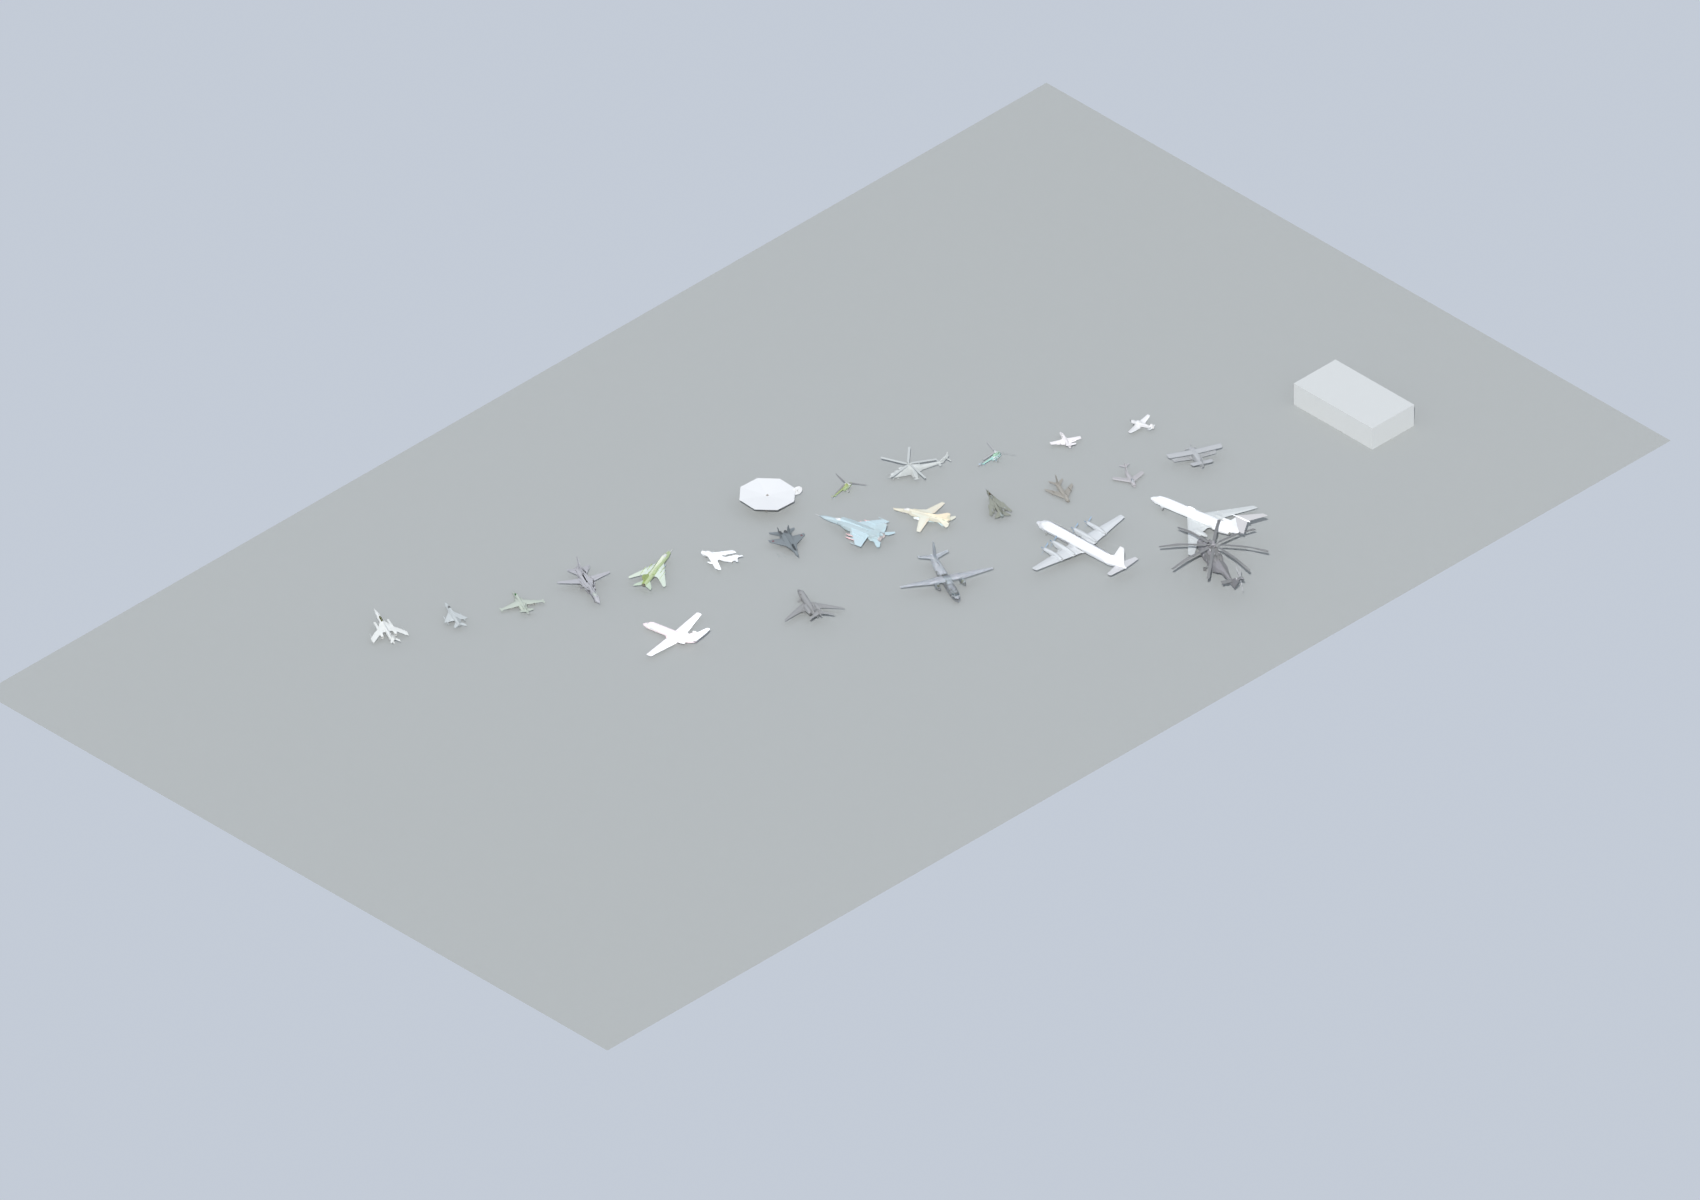
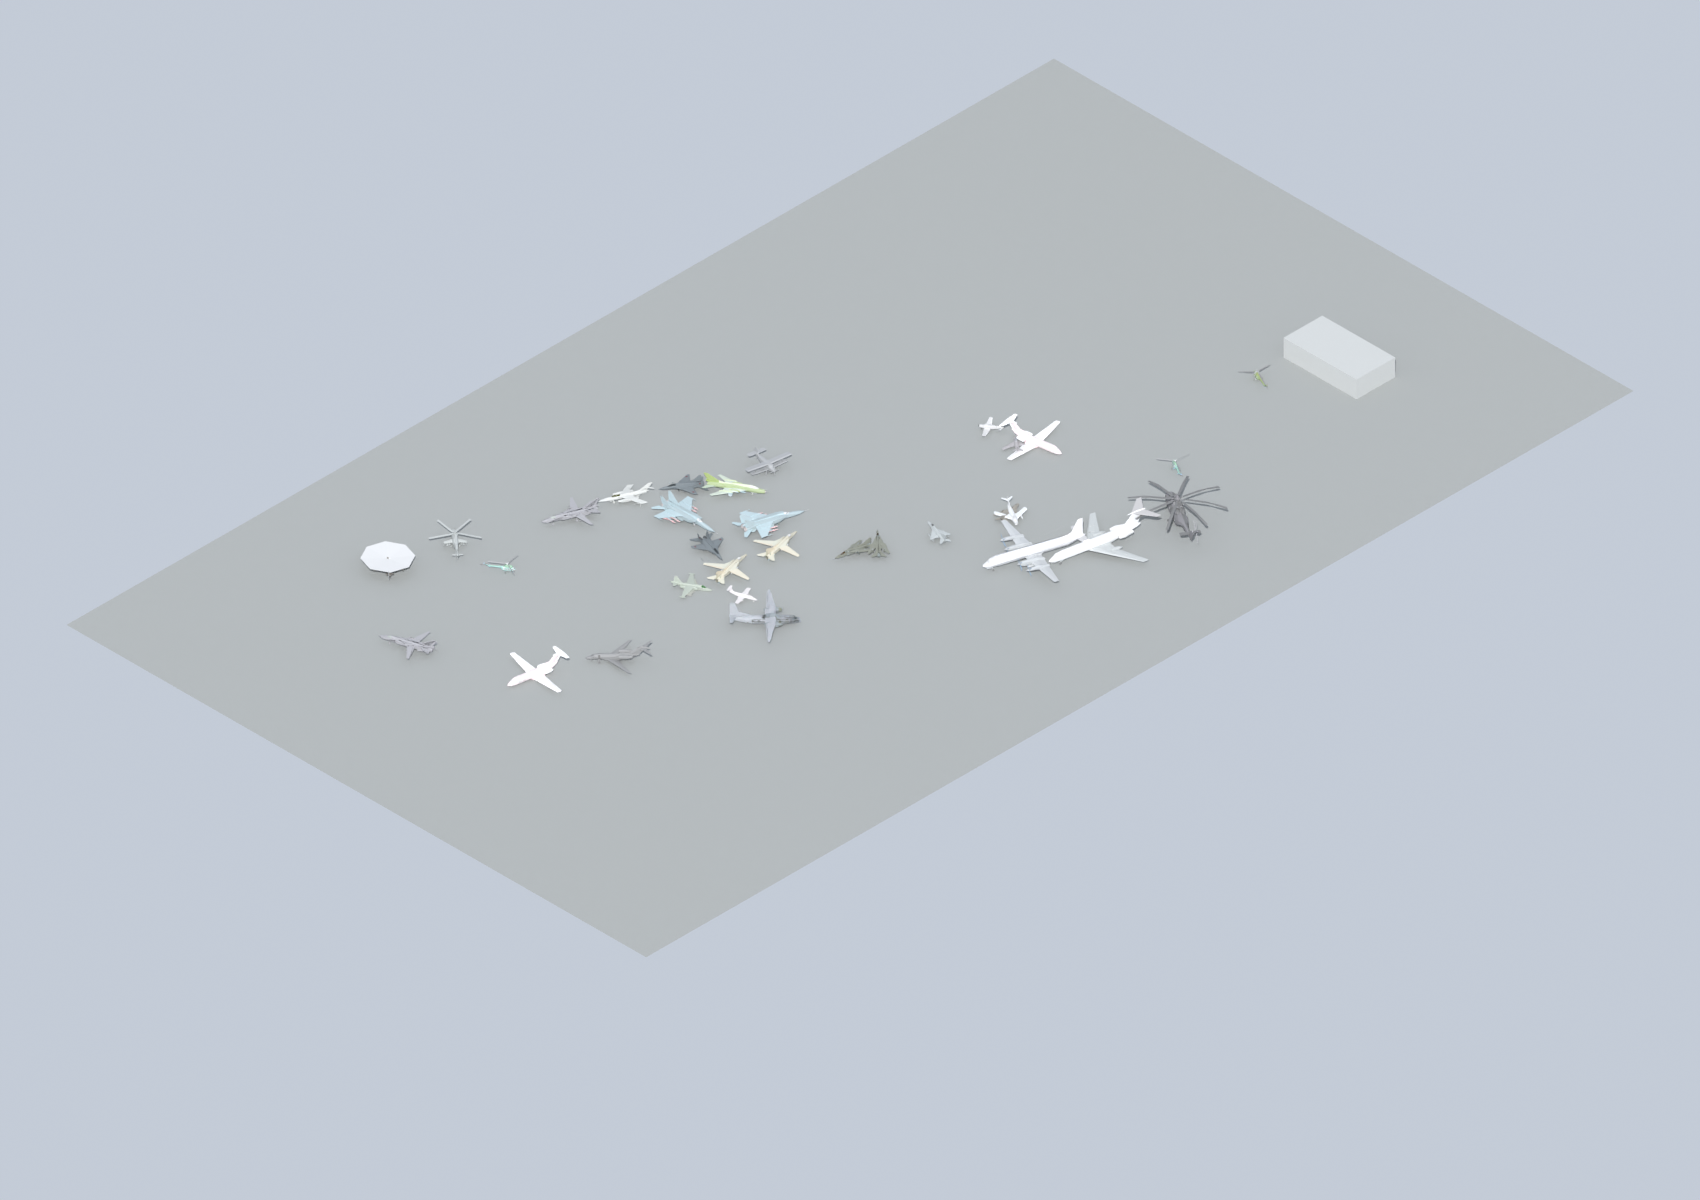
Museum: reframe layout preview camera for the measured placement

diff --git a/scripts/qa/render_museum_layout.py b/scripts/qa/render_museum_layout.py
@@ -156,20 +156,20 @@ def main() -> None:
     build_exhibit_mesh(models)
     ground_and_hangar()
 
-    center = (9285.0, 660.0)
+    center = (9285.0, 650.0)
     # Top-down plan view.
     render_view(
         "museum-layout-top.png",
         (center[0], center[1], 400.0),
         (0.0, 0.0, 0.0),
-        470.0,
+        560.0,
     )
     # Three-quarter view, similar to the map camera.
     render_view(
         "museum-layout-3d.png",
-        (center[0] + 260.0, center[1] - 260.0, 240.0),
+        (center[0] + 300.0, center[1] - 300.0, 260.0),
         (math.radians(55), 0.0, math.radians(45)),
-        520.0,
+        560.0,
     )
 
 
